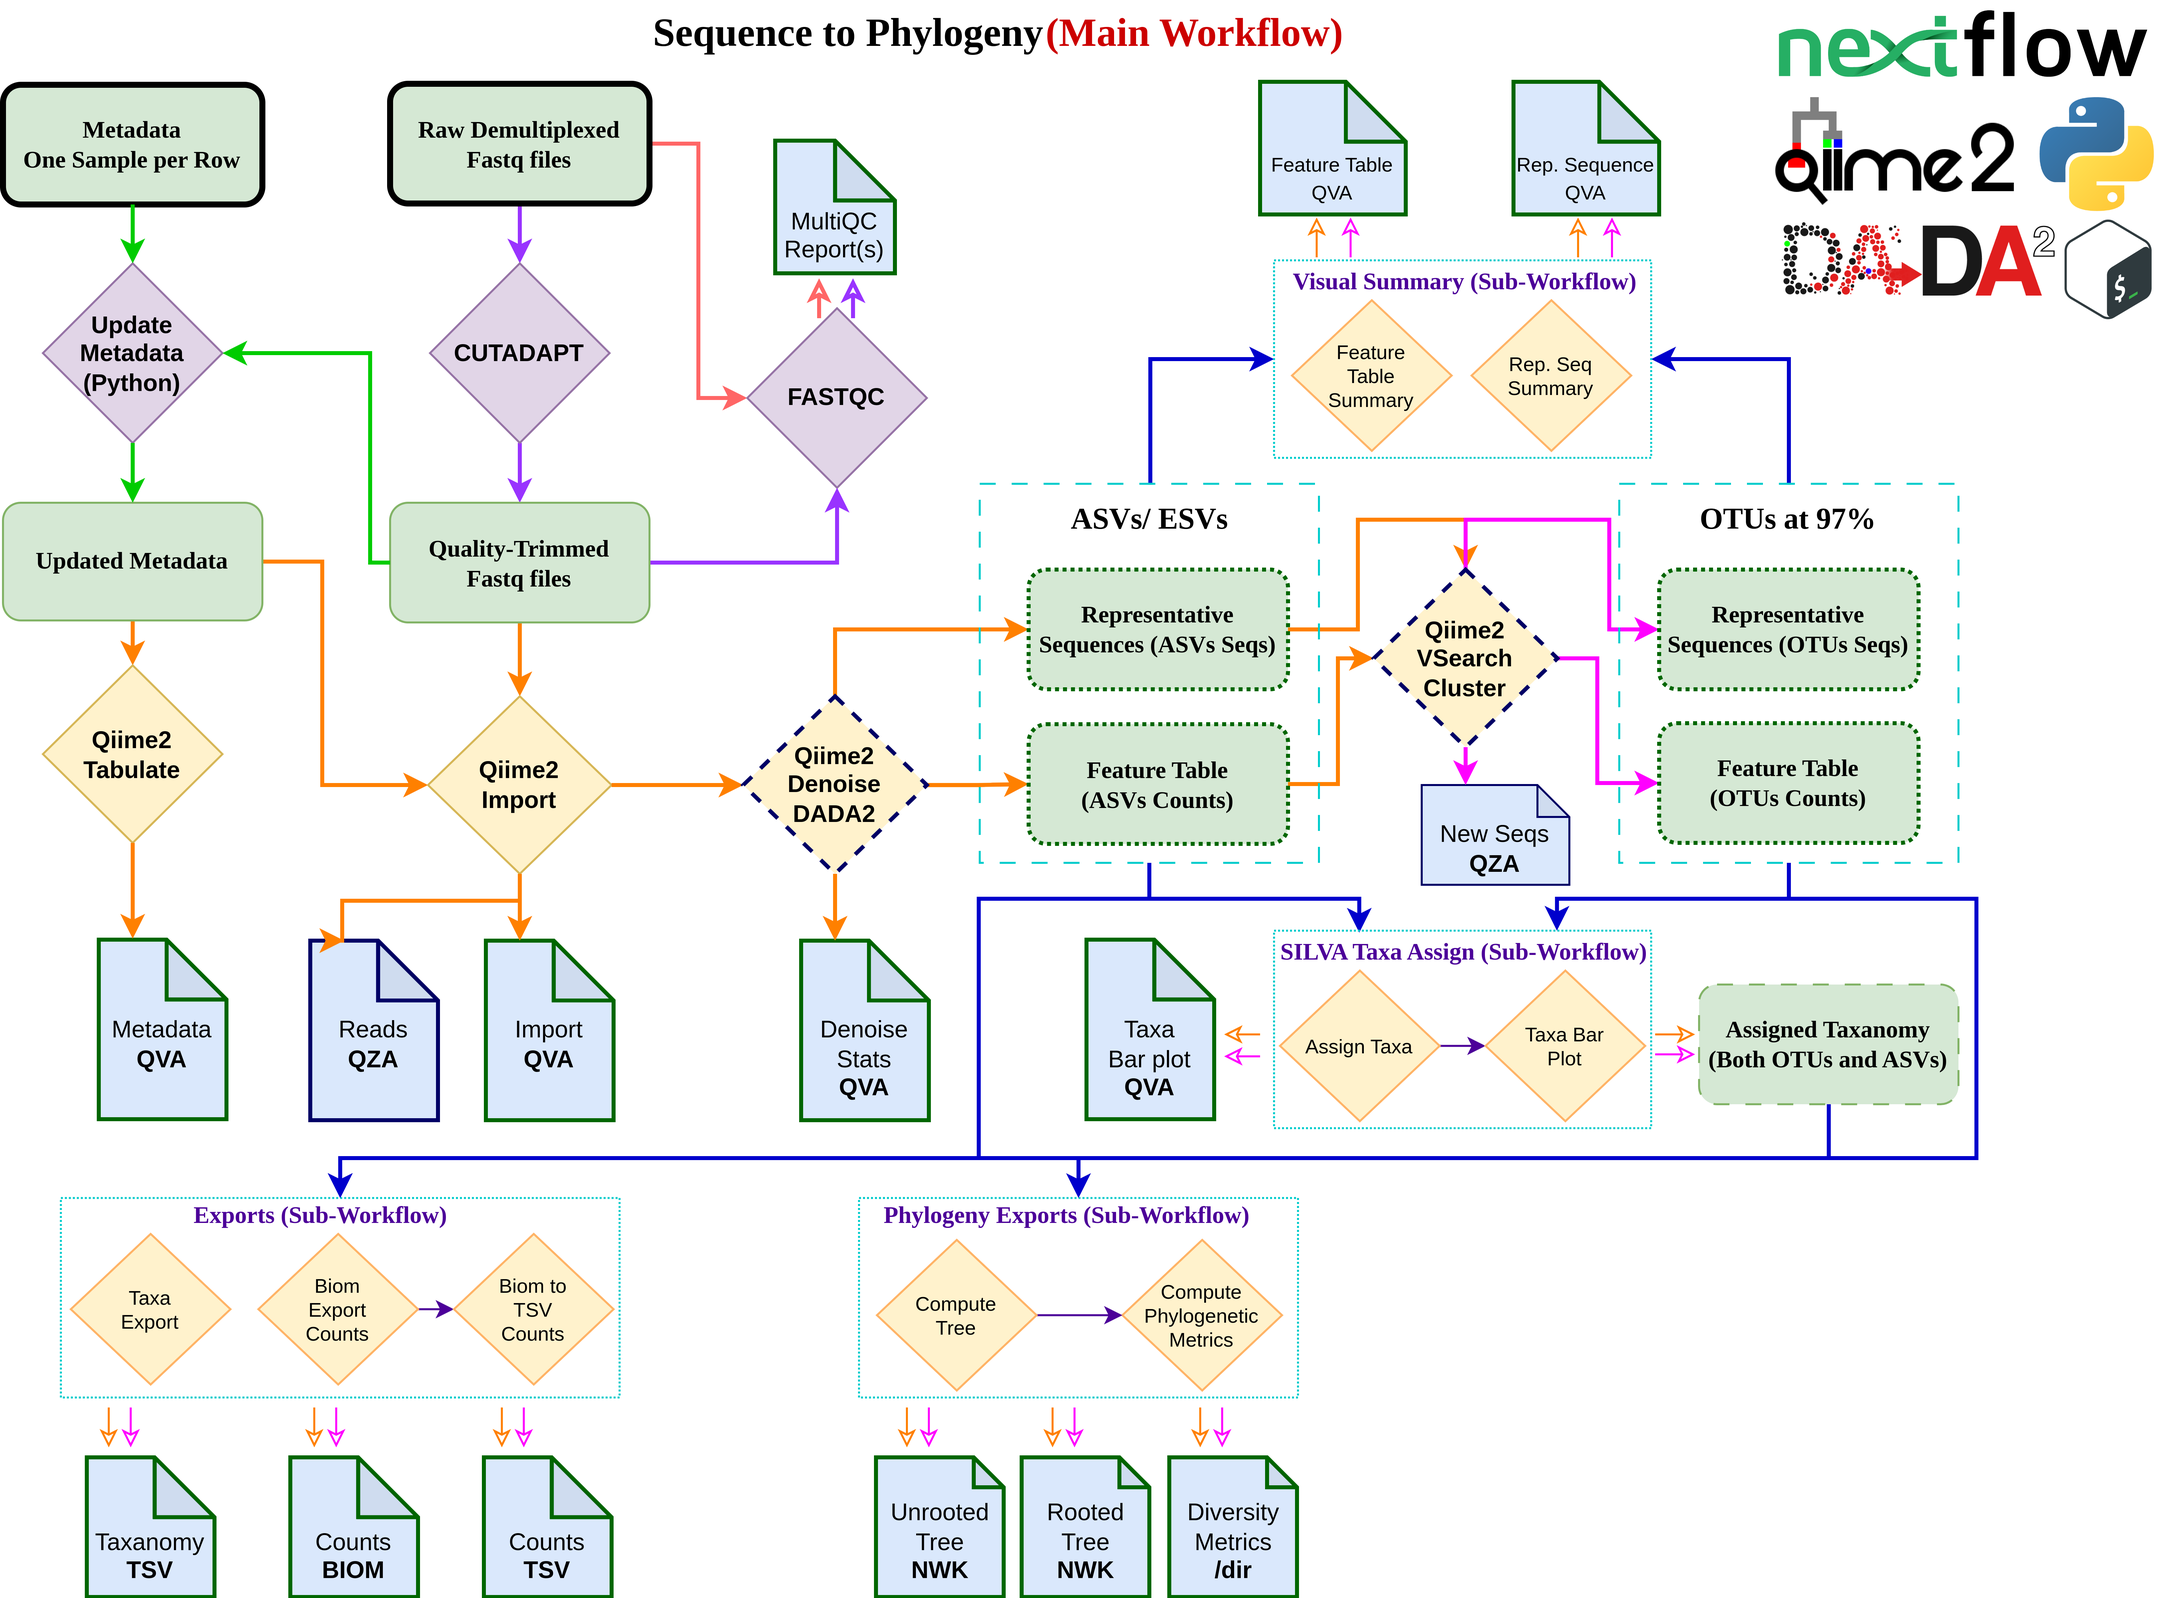
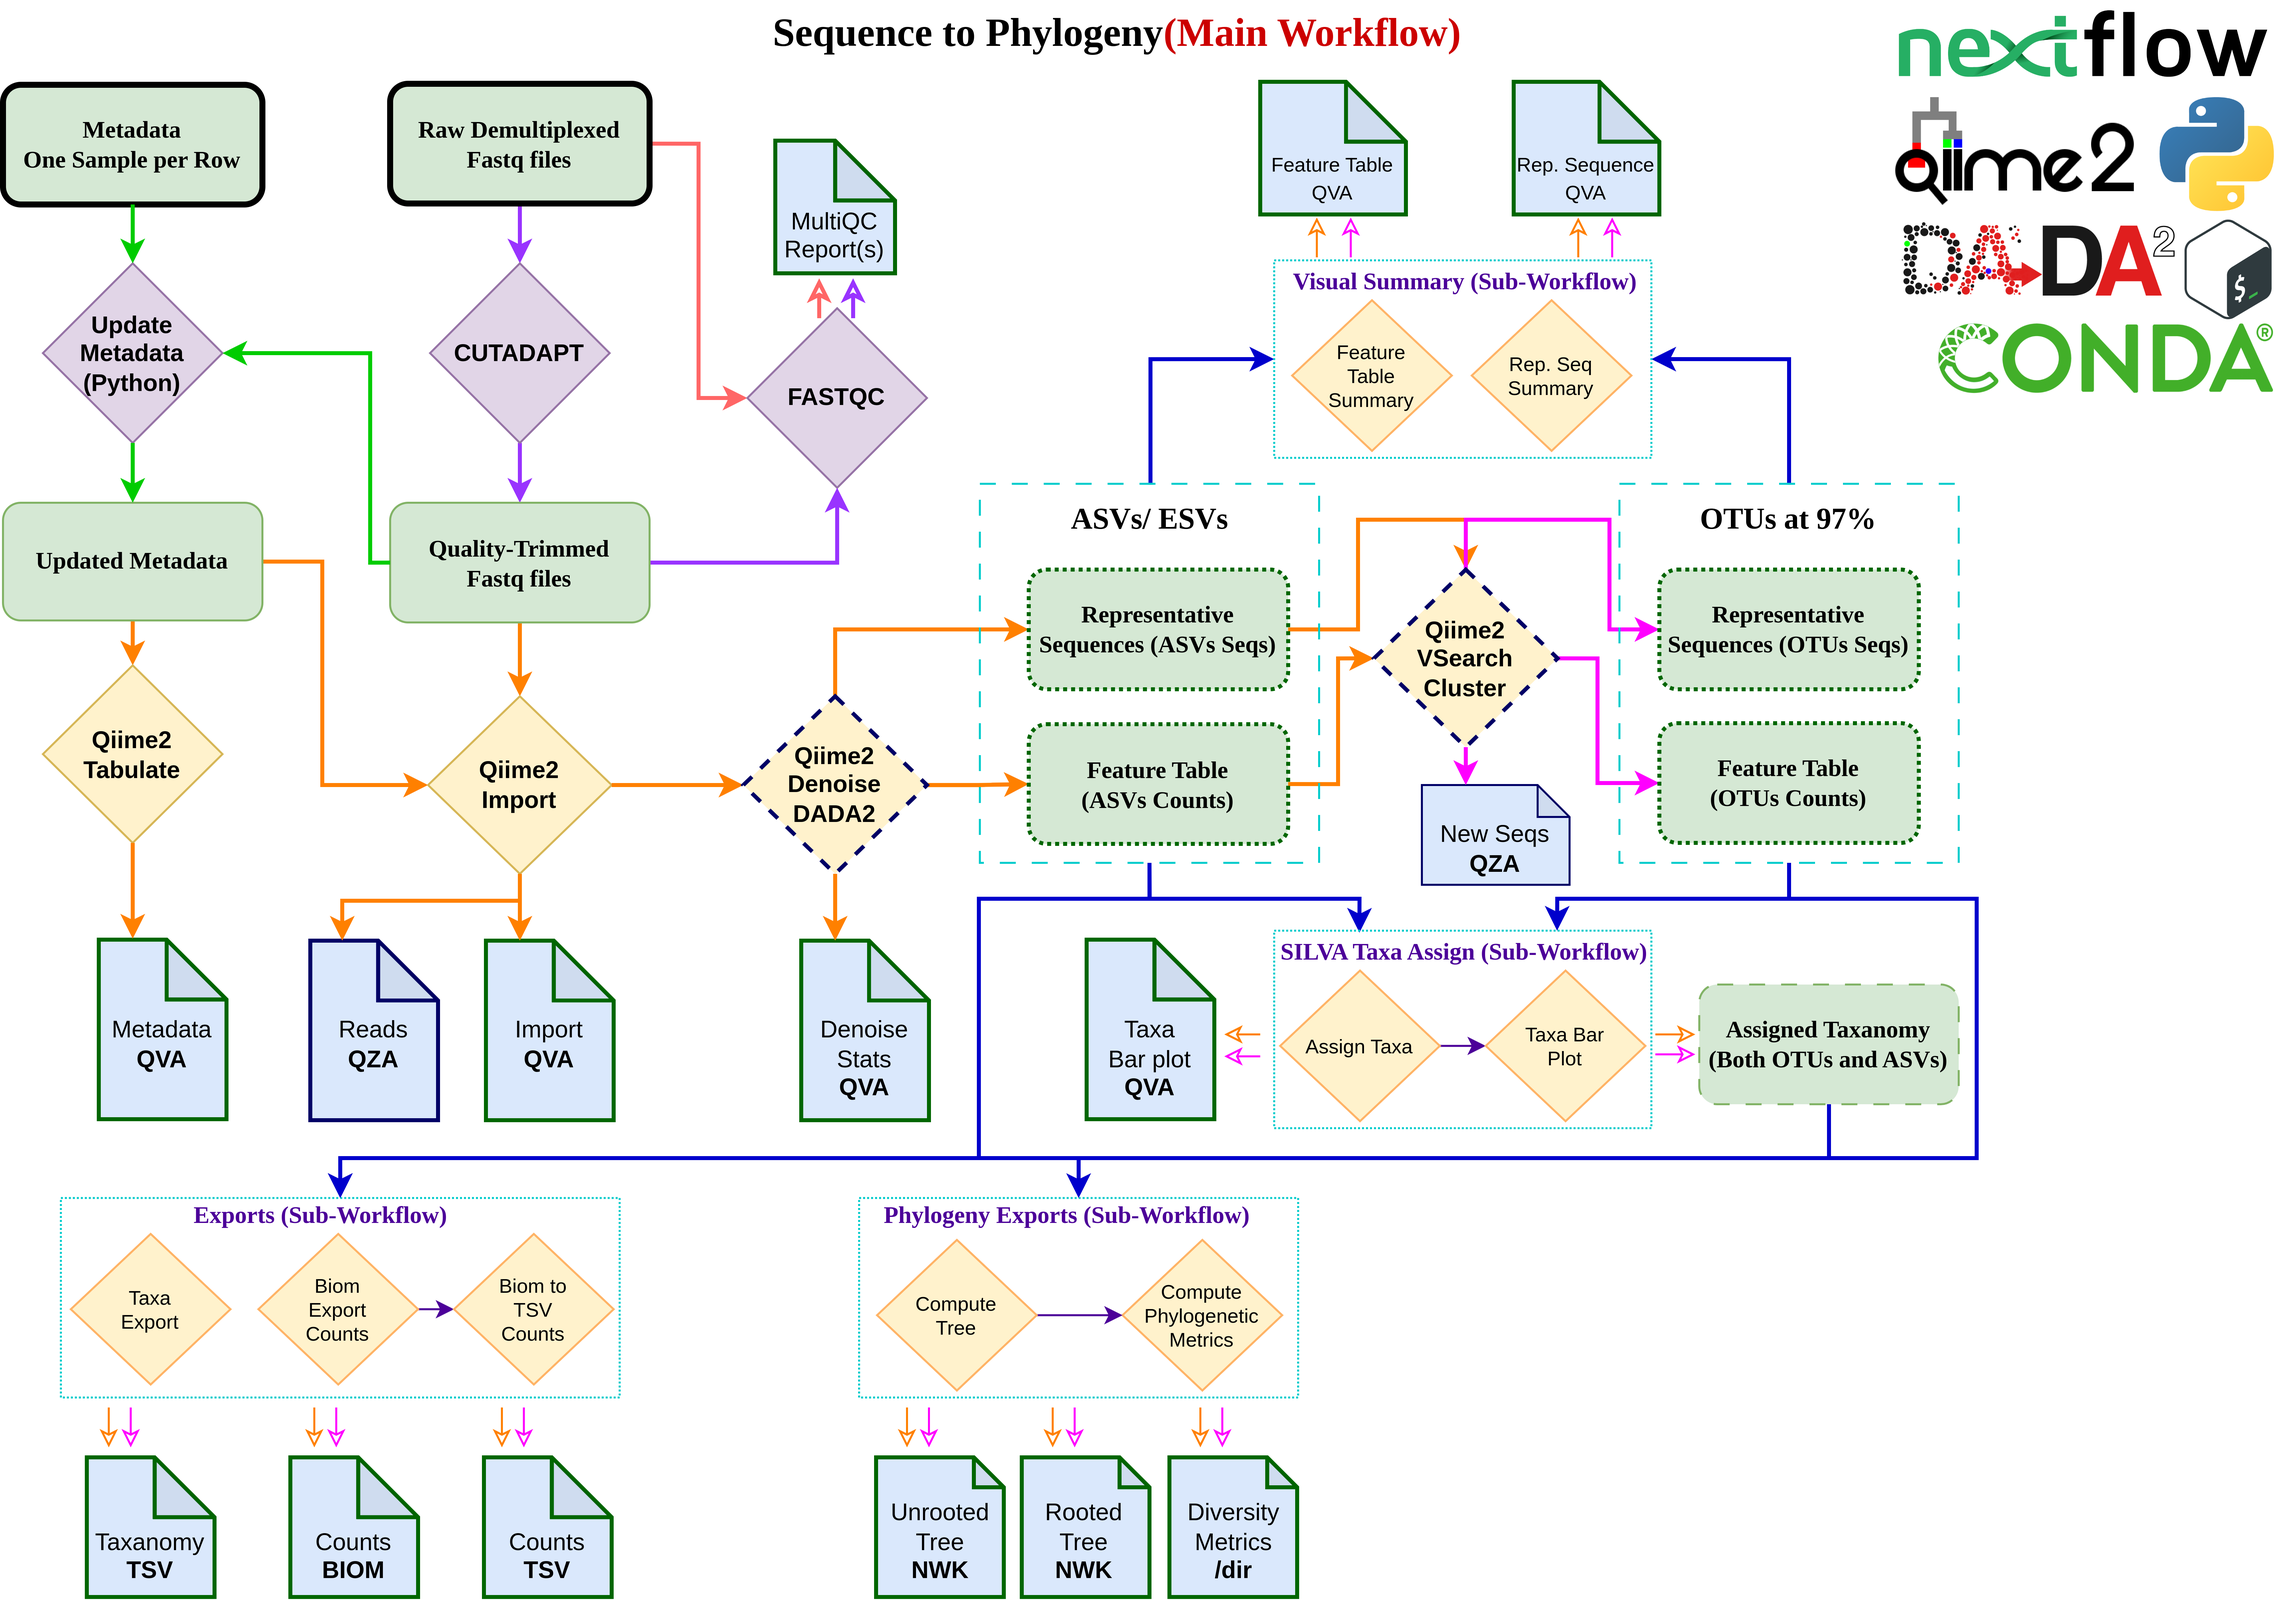
Remove diversity process

diff --git a/README.md b/README.md
@@ -1,4 +1,4 @@
-## Assessing the impact of gene sequence clustering strategies in determining microbe-microbe interactions in environmental microbiome datasets.
+# Assessing the impact of gene sequence clustering strategies in determining microbe-microbe interactions in environmental microbiome datasets.
 
 ### Microbial Co-occurrence Networks
 <p align="justify">
@@ -32,19 +32,51 @@ This project aims to evaluate whether clustering microbiome gene sequences at va
 
 </p>
 
-### Methods/Tech-Stack
-* Python & R
-* Qiime2
-* Nextflow
-* DADA2 (ASVs) and VSearch (OTUs at 97%)
-* Shell Scripting
-* Conda
-
 ### Pipeline
 
 ![](rsc/ChernobylNextflow.png)
 
-### Reproducibility and Usage
+### Usage
+
+**Configure the parameters and paths accordingly. The name of the file is `nextflow.config`.**
+
+Execute the following to run the pipeline from start after.
+
+```bash
+nextflow run main.nf -with-conda --log
+```
+
+**Repository Structure**
+
+```
+Repo
+│   
+├── 01_Data_Preprocessing: Scripts for Generating Qiime2-Metadata.
+│   
+├── 02_ShellScripts: Entire Nextflow pipeline as a shell script.
+│
+│── bin
+│   │── update_metadata.py: Python Script to update metadata columns.
+│
+│── envs: Conda environments
+│   │── *.yml: Cutadapt, FastQC, MultiQC, Pandas.
+│ 
+│── modules: Nextflow modules and sub-workflows
+│   │── cutadapt: Cutadapt Process.
+│   │── fastqc: FastQC Process.
+│   │── multiqc: MultiQC Process.
+│   │── python: Update Metadata Process.
+│   │── qiime2: Qiime2 Common Processes.
+│   │   │── qiime2.nf: Includes Vsearch and DADA2 Processes.
+│   │   │── qiime2_exports.nf: Exports Qiime2 artifacts to TSV & BIOM.
+│   │   │── phylogeny.nf: Compute Trees and Metrics.
+│   │   
+│   │── sub_workflows (Applied to both ASVs and OTUs individually)
+│   │   │── assign_silva_taxa_subflow.nf: Assigning taxanomy.
+│   │   │── compute_phylogeny_subflow.nf: Downstream Phylogeny Analysis.
+│   │   │── export_tables_subflow.nf: Export Data.
+│   │   │── visual_summary_subflow.nf: Generate QVZ files.
+```
 
 
 ### Important References
